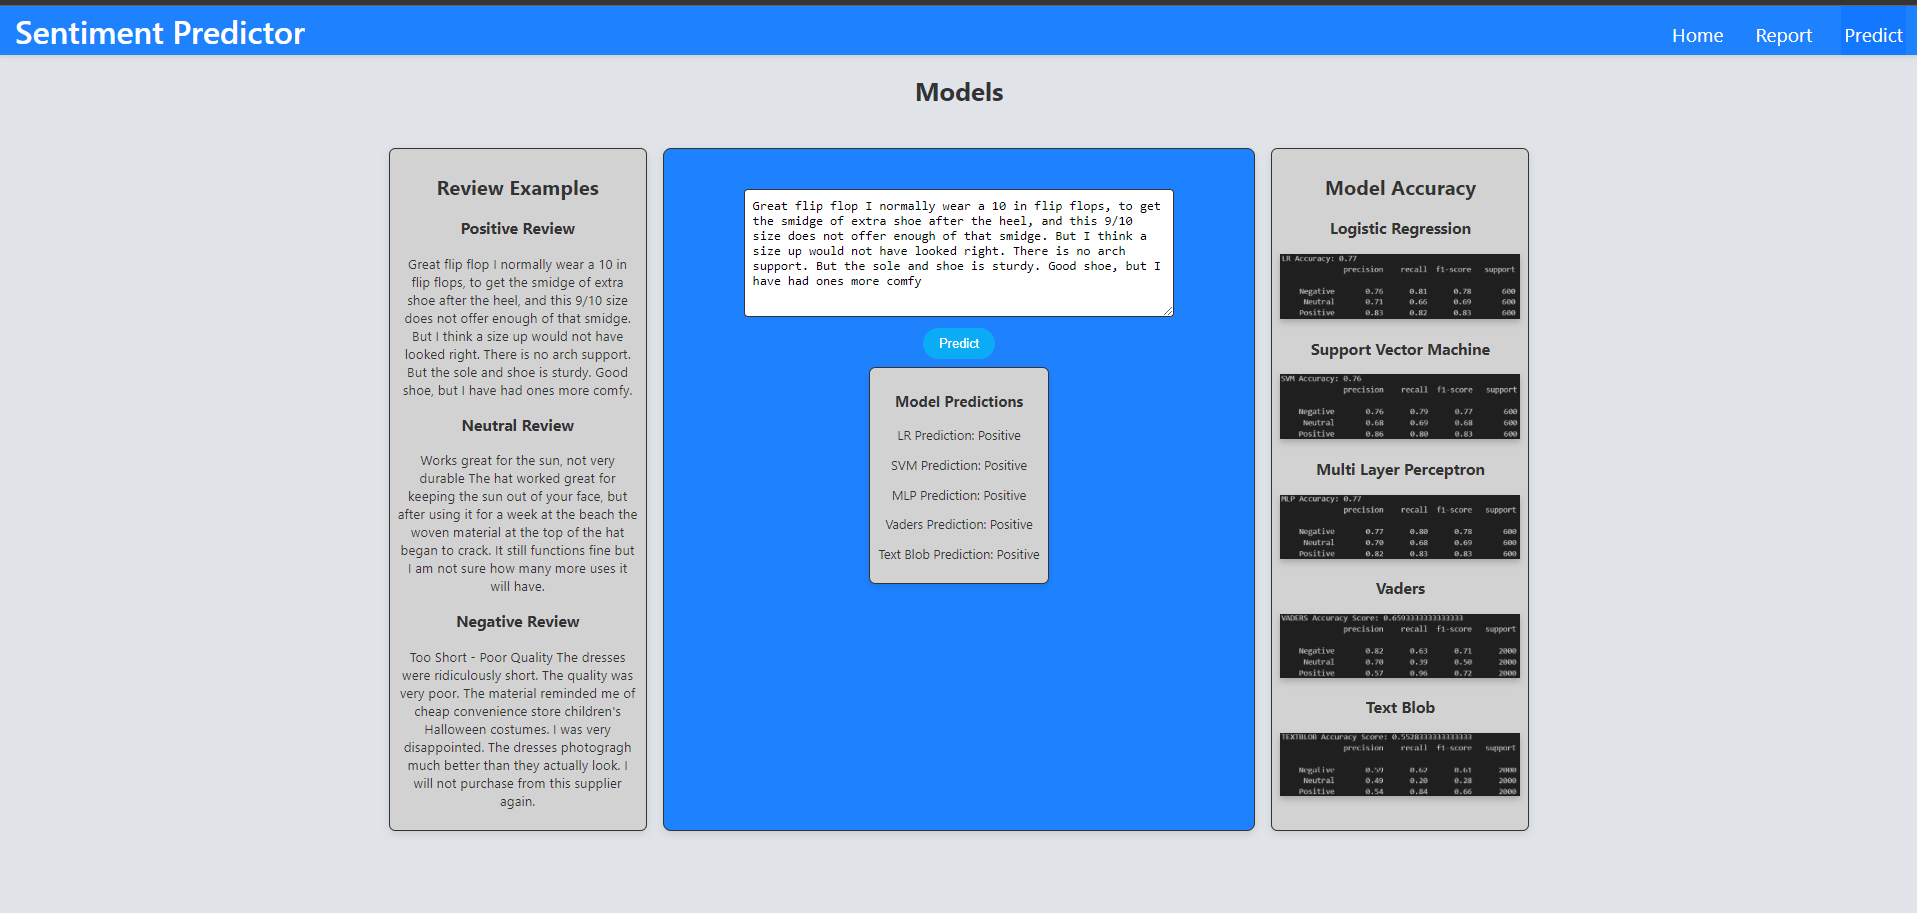
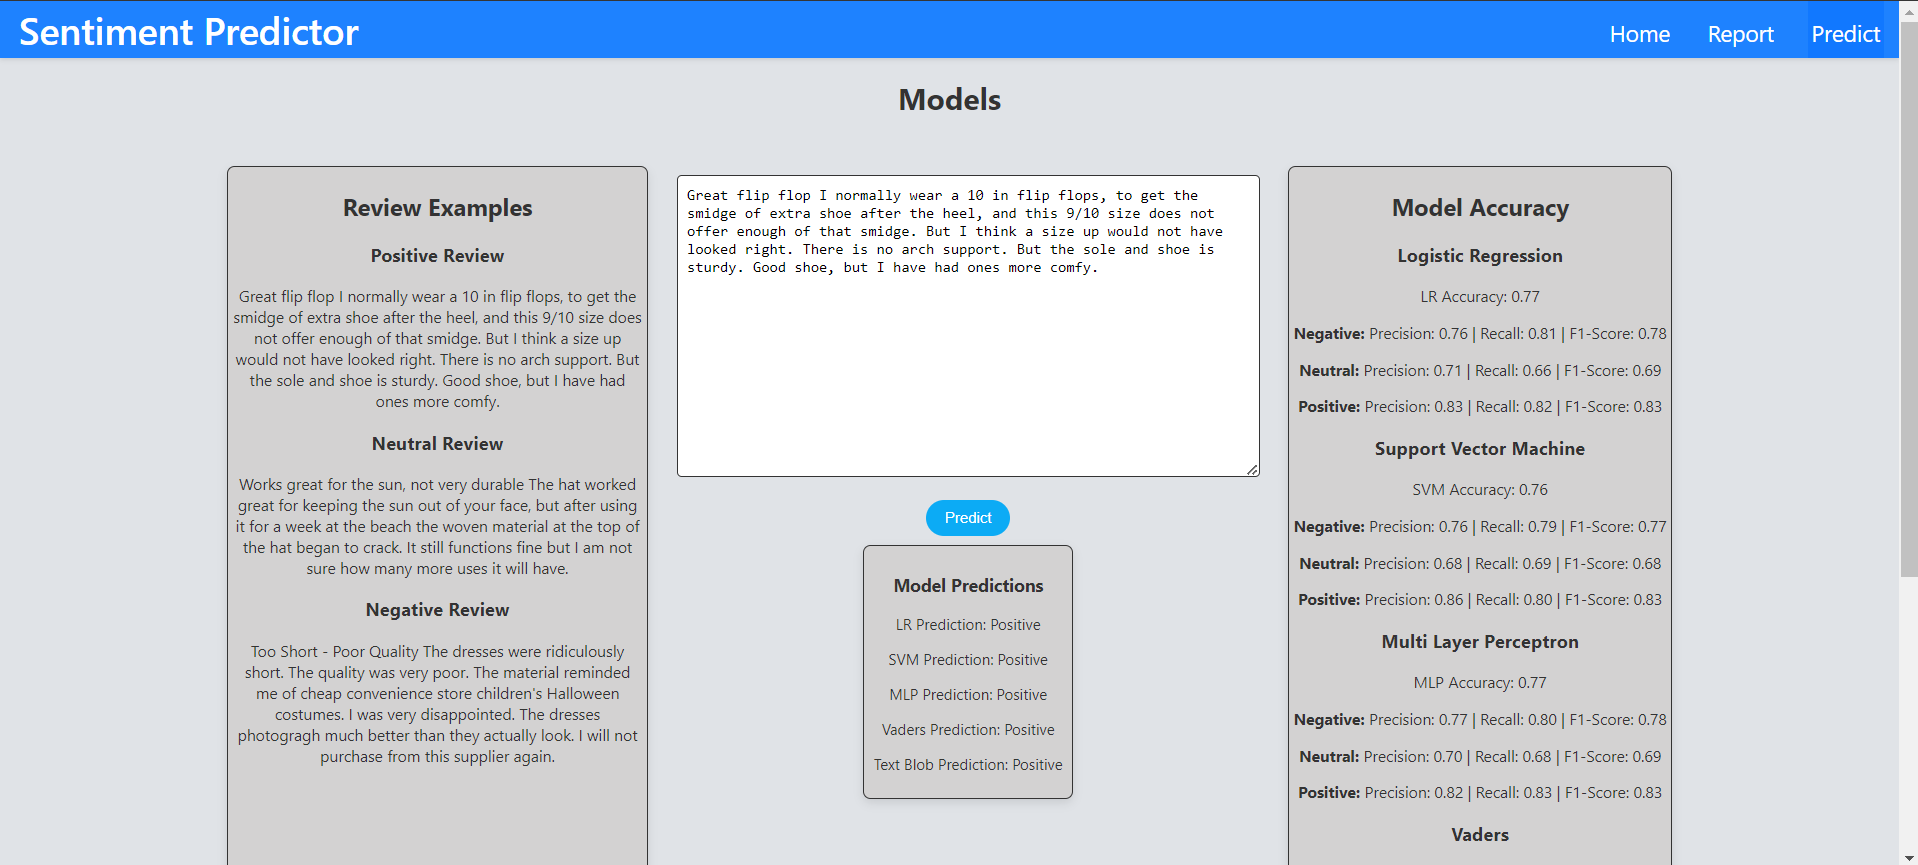
Css changes

diff --git a/src/pages/Models.js b/src/pages/Models.js
@@ -1,9 +1,5 @@
 import React, { useState } from 'react';
-import svmImage from '../image/svm.png';
-import mlpImage from '../image/mlp.png';
-import lrImage from '../image/lr.png';
-import vadersImage from '../image/vaders.png';
-import textblobImage from '../image/textblob.png';
+
 
 export default function Models() {
     const [inputText, setInputText] = useState('');
@@ -92,16 +88,95 @@ export default function Models() {
             <div className='models'>
                 <h2> Model Accuracy</h2>
                 <h3> Logistic Regression</h3>
-                
-                <img src={lrImage} width={300}></img>
+                <p>LR Accuracy: 0.77</p>
+                <p>
+                    <strong>Negative: </strong>
+                    
+                    Precision: 0.76 | Recall: 0.81 | F1-Score: 0.78 
+                </p>
+                <p>
+                    <strong>Neutral: </strong>
+                    
+                    Precision: 0.71 | Recall: 0.66 | F1-Score: 0.69 
+                </p>
+                <p>
+                    <strong>Positive: </strong>
+                    
+                    Precision: 0.83 | Recall: 0.82 | F1-Score: 0.83 
+                </p>
+
                 <h3> Support Vector Machine</h3>
-                <img src={svmImage} width={300}></img>
+                <p>SVM Accuracy: 0.76</p>
+                <p>
+                    <strong>Negative: </strong>
+                    
+                    Precision: 0.76 | Recall: 0.79 | F1-Score: 0.77 
+                </p>
+                <p>
+                    <strong>Neutral: </strong>
+                    
+                    Precision: 0.68 | Recall: 0.69 | F1-Score: 0.68 
+                </p>
+                <p>
+                    <strong>Positive: </strong>
+                    
+                    Precision: 0.86 | Recall: 0.80 | F1-Score: 0.83 
+                </p>
                 <h3> Multi Layer Perceptron</h3>
-                <img src={mlpImage} width={300}></img>
+                <p>MLP Accuracy: 0.77</p>
+                <p>
+                    <strong>Negative: </strong>
+                    
+                    Precision: 0.77 | Recall: 0.80 | F1-Score: 0.78 
+                </p>
+                <p>
+                    <strong>Neutral: </strong>
+                    
+                    Precision: 0.70 | Recall: 0.68 | F1-Score: 0.69 
+                </p>
+                <p>
+                    <strong>Positive: </strong>
+                    
+                    Precision: 0.82 | Recall: 0.83 | F1-Score: 0.83 
+                </p>
+               
                 <h3> Vaders</h3>
-                <img src={vadersImage} width={300}></img>
+                <p>Vaders Accuracy: 0.66</p>
+                <p>
+                    <strong>Negative: </strong>
+                    
+                    Precision: 0.82 | Recall: 0.63 | F1-Score: 0.71 
+                </p>
+                <p>
+                    <strong>Neutral: </strong>
+                    
+                    Precision: 0.70 | Recall: 0.39 | F1-Score: 0.5 
+                </p>
+                <p>
+                    <strong>Positive: </strong>
+                   
+                    Precision: 0.57 | Recall: 0.96 | F1-Score: 0.72 
+                </p>
+                
+                
                 <h3> Text Blob</h3>
-                <img src={textblobImage} width={300}></img>
+                <p>Text Blob Accuracy: 0.55</p>
+                <p>
+                    <strong>Negative: </strong>
+                    
+                    Precision: 0.59 | Recall: 0.62 | F1-Score: 0.61 
+                </p>
+                <p>
+                    <strong>Neutral: </strong>
+                    
+                    Precision: 0.49 | Recall: 0.20 | F1-Score: 0.28 
+                </p>
+                <p>
+                    <strong>Positive: </strong>
+                    
+                    Precision: 0.54 | Recall: 0.84 | F1-Score: 0.66 
+                </p>
+                
                 
             </div>
             </div>

diff --git a/src/styles.css b/src/styles.css
@@ -5,7 +5,17 @@ body {
     font-family: 'Segoe UI', Tahoma, Geneva, Verdana, sans-serif;
     text-align: center;
 }
-
+#root {
+    display: flex;
+    flex-direction: column;
+    min-height: 100vh;
+}
+.footer {
+    background-color: #1e82ff;
+    padding: 5px;
+    color: white;
+    margin-top: auto;
+}
 .nav {
     background-color: #1e82ff; 
     color: white;
@@ -79,13 +89,8 @@ body {
     background-color: #4bbcf9;
 }
 
-.container {
-    display: inline-block;
-    border: 2px solid #333; 
-    padding: 50px 100px; 
-    background-color: #1e82ff; 
-    border-radius: 10px; 
-    box-shadow: 0 4px 10px rgba(0, 0, 0, 0.1); 
+.textbox{
+    padding: 10px;
 }
 
 .textbox textarea {
@@ -103,14 +108,15 @@ body {
 
 .examples, .models, .box {
     border: 2px solid #333; 
-    padding: 10px;
+    padding: 5px;
     background-color: #d3d2d2; 
     border-radius: 8px; 
     box-shadow: 0 4px 10px rgba(0, 0, 0, 0.1); 
+    box-sizing: border-box;
 }
 
 .examples, .models {
-    max-width: 300px;
+    max-width: 450px;
     font-size: 1.05rem;
     background-color: #d3d2d2;
     border-radius: 8px;

diff --git a/src/App.js b/src/App.js
@@ -4,6 +4,7 @@ import Models from './pages/Models'
 import About from './pages/About'
 import NoPage from './pages/NoPage'
 import Navbar from "./components/Navbar";
+import Footer from "./components/Footer";
 
 
 
@@ -22,6 +23,7 @@ function App() {
         </Routes>
       
     </div>
+    <Footer/>
     </>
   );
 }

diff --git a/src/components/Footer.js b/src/components/Footer.js
@@ -1,0 +1,8 @@
+export default function Footer(){
+    return(
+      <footer className="footer">
+        <p>&copy; 2024 Haseeb Siddiqi. All rights reserved. | This website was created by Haseeb Siddiqi.</p>
+
+      </footer>
+    )
+}
